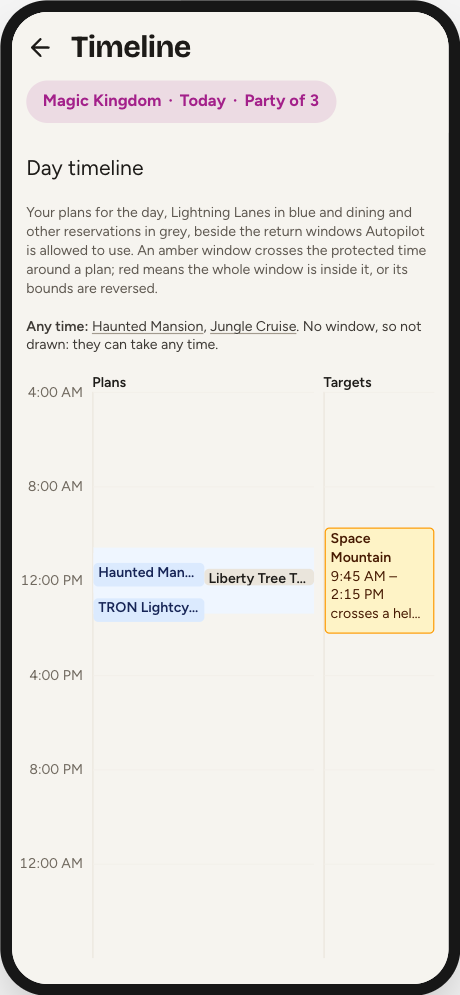
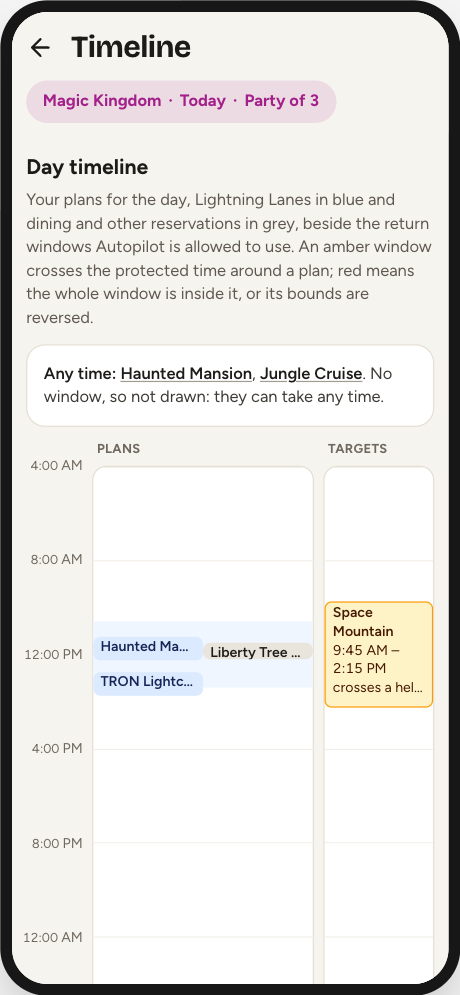
New look, slice 13: the Timeline (#40)
The Timeline redrawn, the last screen the foundation alone had drawn.
Looks only: the same rail, bars, words and taps, and the bars keep the
colours that say what they are.

- Plans and Targets as white panels under quiet labels, as the tip
  board draws its lists, with the hours on the page beside them, so the
  bars keep the width 1.8.0 found them at 360 px.
- Rounder bars, in the same blue, grey, green, amber and red, with a
  little more room for their names.
- Any time as a card, its names in ink.
- The heading in bold, as Today's are, and the intro at reading size.

Checked in the harness at 360 px. The guide's timeline screenshot is
retaken, and NEW-LOOK.md marks slices 6 to 12 merged and says every
screen is now redrawn.

diff --git a/src/components/ll/DayTimeline.tsx b/src/components/ll/DayTimeline.tsx
@@ -118,21 +118,21 @@ export default function DayTimeline({
 
   return (
     <section className="mt-4" aria-label="Day timeline">
-      <h3>Day timeline</h3>
-      <p className="text-xs text-gray-600">
+      <h3 className="mt-0 mb-1 font-bold">Day timeline</h3>
+      <p className="my-0 text-sm text-gray-600">
         Your plans for the day, Lightning Lanes in blue and dining and other
         reservations in grey, beside the return windows Autopilot is allowed to
         use. An amber window crosses the protected time around a plan; red means
         the whole window is inside it, or its bounds are reversed.
       </p>
       {timeline.anyTime.length > 0 && (
-        <p className="mt-2 text-xs text-gray-700">
-          <span className="font-semibold">Any time:</span>{' '}
+        <p className="mt-3 mb-0 rounded-2xl border border-gray-300 bg-white p-3.5 text-sm text-gray-700">
+          <span className="font-semibold text-ink">Any time:</span>{' '}
           {timeline.anyTime.map((target, index) => (
             <Fragment key={target.id}>
               {index > 0 && ', '}
               <button
-                className="underline decoration-gray-400 underline-offset-2"
+                className="font-semibold text-ink underline decoration-gray-400 underline-offset-2"
                 onClick={() => onTargetTap?.(target.id)}
               >
                 {target.name}
@@ -143,9 +143,12 @@ export default function DayTimeline({
         </p>
       )}
       {/* Each side's width in proportion to its columns, so that two plans
-          at once do not get half the room one target window does. */}
+          at once do not get half the room one target window does. Each side
+          is a white panel under a quiet label, as the tip board draws its
+          lists; the hours stay on the page beside them, so the bars keep the
+          width 1.8.0 found them at 360 px. */}
       <div
-        className="mt-2 grid gap-x-2 text-xs"
+        className="mt-3 grid gap-x-2 text-xs"
         style={{
           gridTemplateColumns: `3rem ${timeline.lanes[0]?.columns ?? 1}fr ${
             timeline.targets[0]?.columns ?? 1
@@ -153,9 +156,13 @@ export default function DayTimeline({
         }}
       >
         <div />
-        <div className="font-semibold">Plans</div>
-        <div className="font-semibold">Targets</div>
-        <div className="relative h-[480px] text-right text-gray-500">
+        <div className="mb-1.5 px-1 text-[11px] font-bold tracking-wide text-gray-500 uppercase">
+          Plans
+        </div>
+        <div className="mb-1.5 px-1 text-[11px] font-bold tracking-wide text-gray-500 uppercase">
+          Targets
+        </div>
+        <div className="relative h-[480px] text-right text-[11px] text-gray-500">
           {MARKERS.map(time => (
             <span
               key={time.toString()}
@@ -166,7 +173,7 @@ export default function DayTimeline({
             </span>
           ))}
         </div>
-        <div className="relative h-[480px] border-l border-gray-200">
+        <div className="relative h-[480px] overflow-hidden rounded-xl border border-gray-300 bg-white">
           {MARKERS.map(time => (
             <div
               key={time.toString()}
@@ -197,7 +204,7 @@ export default function DayTimeline({
             return (
               <Fragment key={lane.id}>
                 <button
-                  className={`absolute rounded-sm text-left ${
+                  className={`absolute rounded-md text-left ${
                     lane.kind === 'll'
                       ? 'bg-blue-100 text-blue-950'
                       : 'bg-gray-200 text-gray-900'
@@ -209,7 +216,7 @@ export default function DayTimeline({
                   }`}
                 >
                   <HitArea heightPercent={style.height} />
-                  <span className="relative block h-full overflow-hidden px-1">
+                  <span className="relative block h-full overflow-hidden px-1.5">
                     <span
                       className={`font-semibold ${
                         barPx(style.height) >= TWO_LINES_PX
@@ -233,7 +240,7 @@ export default function DayTimeline({
             );
           })}
         </div>
-        <div className="relative h-[480px] border-l border-gray-200">
+        <div className="relative h-[480px] overflow-hidden rounded-xl border border-gray-300 bg-white">
           {MARKERS.map(time => (
             <div
               key={time.toString()}
@@ -258,7 +265,7 @@ export default function DayTimeline({
             return (
               <button
                 key={target.id}
-                className={`absolute rounded-sm border text-left ${
+                className={`absolute rounded-md border text-left ${
                   bad
                     ? 'border-red-500 bg-red-100 text-red-950'
                     : target.clashes.length > 0
@@ -278,7 +285,7 @@ export default function DayTimeline({
                 }`}
               >
                 <HitArea heightPercent={style.height} />
-                <span className="relative block h-full overflow-hidden px-1">
+                <span className="relative block h-full overflow-hidden px-1.5">
                   <span className={`font-semibold ${line}`}>{target.name}</span>
                   <span className={line}>
                     {target.bounded ? (

diff --git a/docs/NEW-LOOK.md b/docs/NEW-LOOK.md
@@ -68,13 +68,14 @@ park. Each slice keeps all of them.
 | 3 | Pocket mode | the next drop at full size, the checks and the latest event, laid out in the gaps of the target's ring | merged (#3) |
 | 4 | NextLL | the search as a card with the held time at full size; Done green, Stop looking red; collapsible sections as cards | merged (#4) |
 | 5 | Tip board | Book and Drop as cards, quiet section labels, the attractions as a card, return times as chips in the park's colour | merged (#5) |
-| 6 | Times | each land as a card under a quiet label in its own colour, its kinds as small labels; waits and show times in soft boxes in the display face, with digits that keep their width; the show-times screen as a card | in review |
-| 7 | Plans | each day as a quiet label that stays on screen while its plans scroll, on the page's own paper; the day's plans as one card with hairline rules | in review |
-| 8 | Configure | its section headings in bold, as Today's are; the add list and the not-on-today's-list list as cards of rows, the add rows the same buttons without their borders; rounder target cards, filter box, notices and undo strip | in review |
-| 9 | Plan Check | its headings in bold, as Today's are; the summary, each item, the connection result, the party result and the doubts panel as rounded boxes, as Today's notices are | in review |
-| 10 | Activity | its headings in bold, as Today's are; the log, the skip counts and the learned drop times each as a card with hairline rules; each log line's time in semibold | in review |
-| 11 | Booking screens | the return window as the biggest thing on them, in the display face, under a small label, still one element that reads "Arrive by: 10:35 AM – 11:35 AM"; Your Lightning Lanes as a card; their headings in bold; rounder notices and the cancel dialog | in review |
-| 12 | Settings | the menu rounder, with hairline rules and a shadow; Party Selection's choice as a card of rows; its and Backup and Restore's headings in bold; the picked backup file as a card | in review |
+| 6 | Times | each land as a card under a quiet label in its own colour, its kinds as small labels; waits and show times in soft boxes in the display face, with digits that keep their width; the show-times screen as a card | merged (#32) |
+| 7 | Plans | each day as a quiet label that stays on screen while its plans scroll, on the page's own paper; the day's plans as one card with hairline rules | merged (#33) |
+| 8 | Configure | its section headings in bold, as Today's are; the add list and the not-on-today's-list list as cards of rows, the add rows the same buttons without their borders; rounder target cards, filter box, notices and undo strip | merged (#34) |
+| 9 | Plan Check | its headings in bold, as Today's are; the summary, each item, the connection result, the party result and the doubts panel as rounded boxes, as Today's notices are | merged (#35) |
+| 10 | Activity | its headings in bold, as Today's are; the log, the skip counts and the learned drop times each as a card with hairline rules; each log line's time in semibold | merged (#36) |
+| 11 | Booking screens | the return window as the biggest thing on them, in the display face, under a small label, still one element that reads "Arrive by: 10:35 AM – 11:35 AM"; Your Lightning Lanes as a card; their headings in bold; rounder notices and the cancel dialog | merged (#37) |
+| 12 | Settings | the menu rounder, with hairline rules and a shadow; Party Selection's choice as a card of rows; its and Backup and Restore's headings in bold; the picked backup file as a card | merged (#38) |
+| 13 | Timeline | Plans and Targets as white panels under quiet labels, with the hours on the page beside them; rounder bars in the same colours; Any time as a card; the intro at reading size | in review |
 
 **One deliberate departure from the mockups.** They put Today's main actions in
 a bar along the bottom. The switch stays in the page instead: a bar there sits
@@ -87,9 +88,8 @@ switch would be a new filter, not a new look, so it is not part of these
 slices. The mockups' single tappable park, date and party chip likewise: the
 header keeps its separate controls until that is built as behaviour.
 
-**Not yet redrawn** beyond what the foundation gave them: the Timeline, which
-waits for AutoLL-3's 1.8.0 (the timeline's names and dining) to arrive by
-merge, since that release redraws the same component. They already have the palette, type, header, tab bar and buttons.
+**Every screen is now redrawn.** The Timeline came last, once AutoLL-3's 1.8.0
+had arrived by merge, since that release redrew the same component.
 
 **The user guide's screenshots** show the new look. All 21 were retaken
 together once the new look's slices and the usability work had landed, from the
